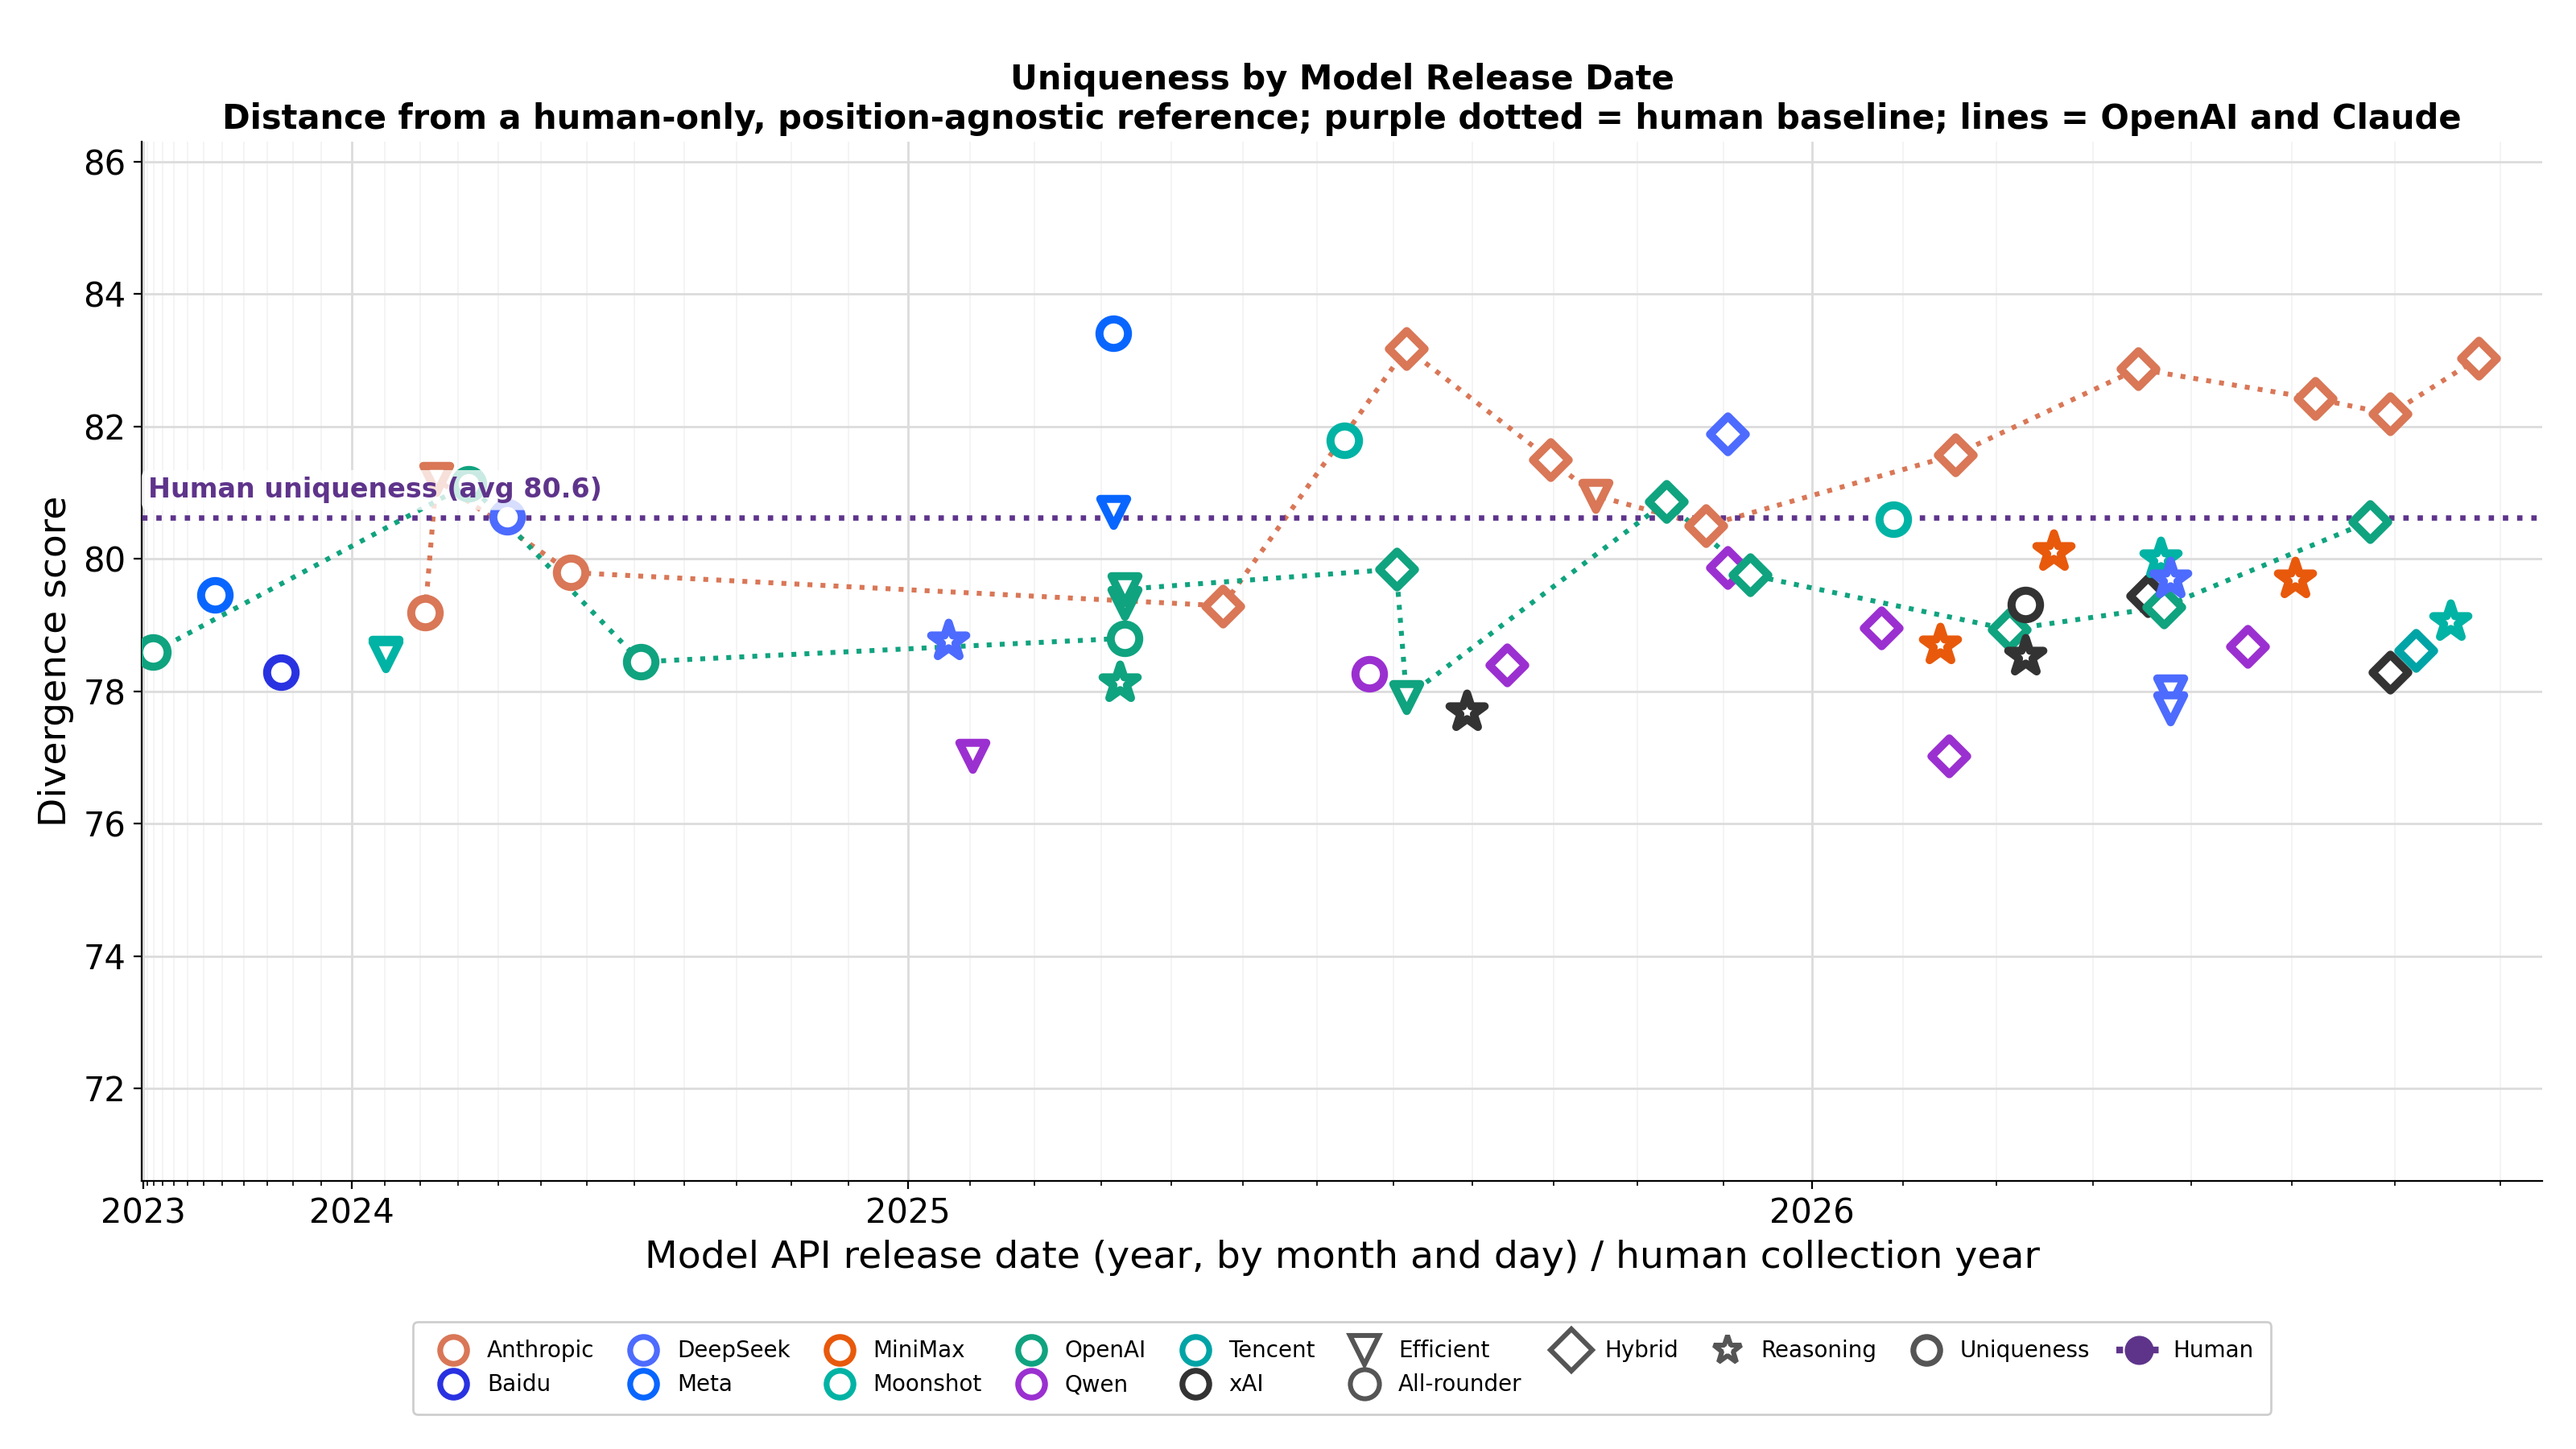
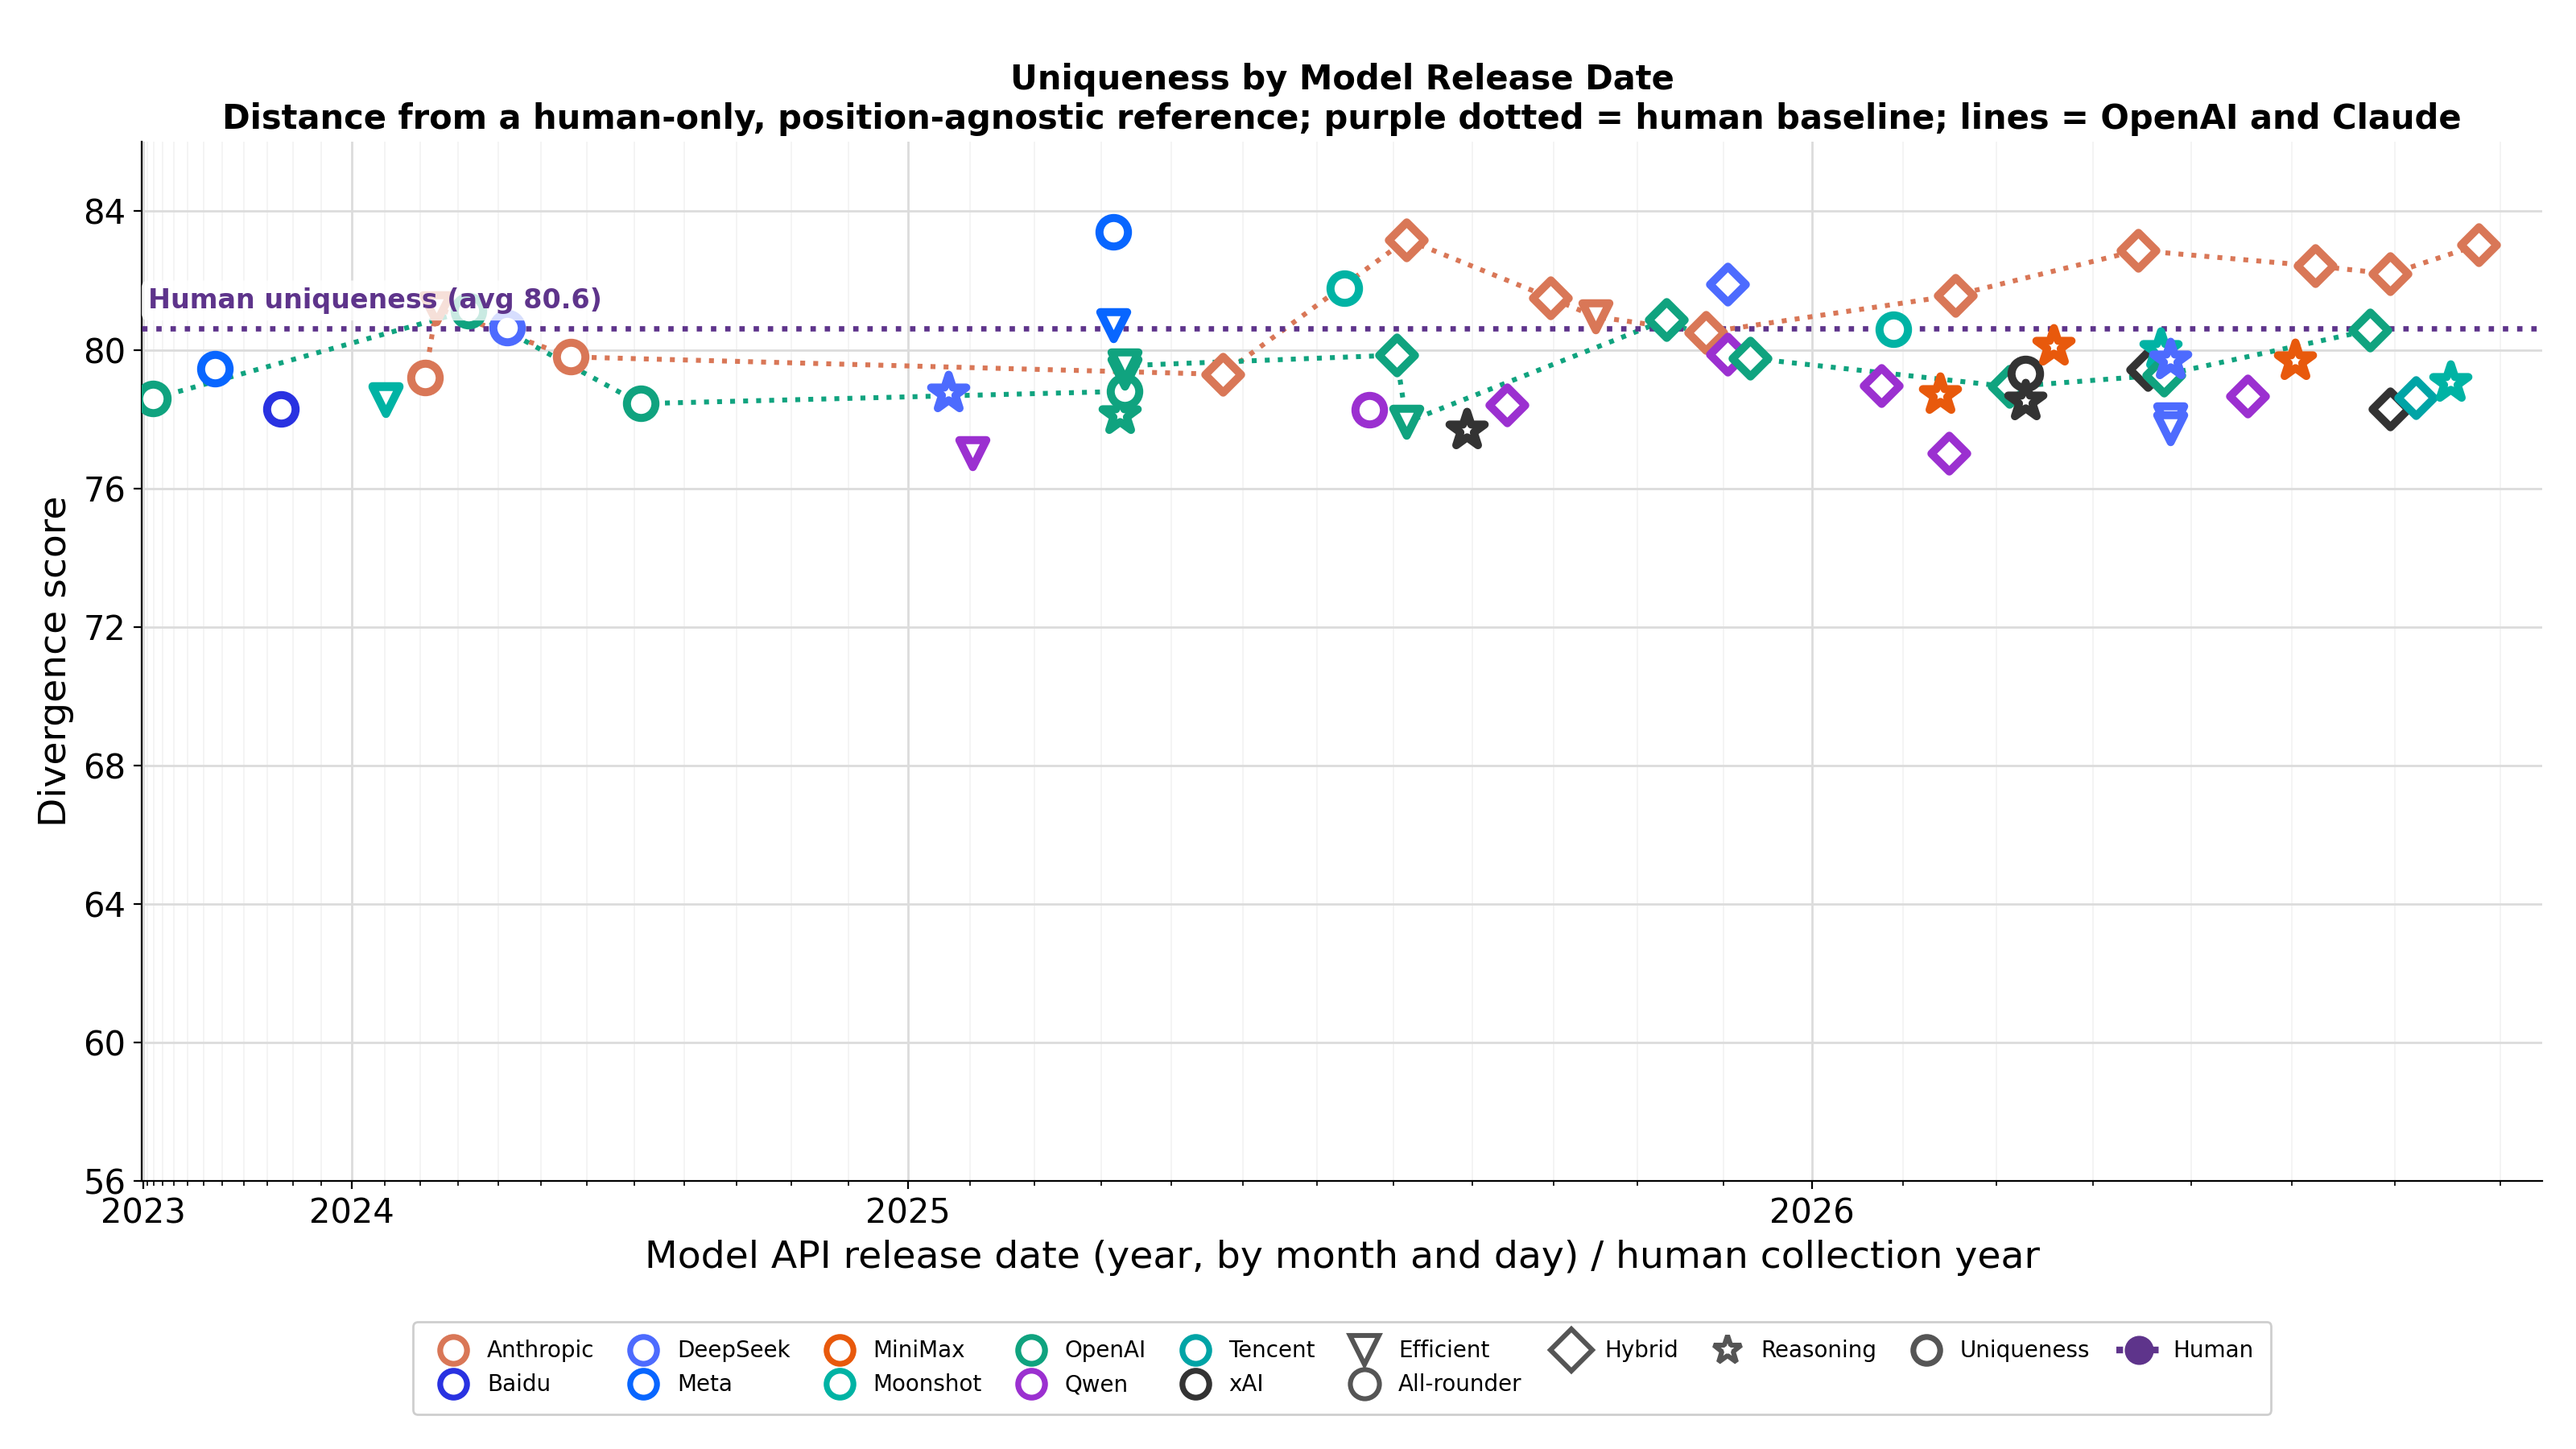
One shared y range of 56 to 86 across every figure
Replaces the two separate ranges (70.6-86.3 for the DAT and human-referenced uniqueness figures,
55.5-87.0 for the own-population uniqueness figures) with a single range in the style module, so
any two figures can be compared directly. Tick step 4 throughout.

Note the top marker sits at 85.89, leaving 0.11 of headroom, so it is partly clipped at the
ceiling.

diff --git a/analysis/overtime_style.py b/analysis/overtime_style.py
@@ -43,7 +43,6 @@ def load_all():
     models.sort(key=lambda m: dat[m][0])
     return dat,btw,hav["human_dat_mean"],hav["human_between_mean"],models
 
-CHURN_YLIM=(55.5,87.0)   # churn spans 56.5-72.3 and must also show the DAT range 71.3-85.9
 def load_uniq():
     """PRIMARY loader: DAT + uniqueness against a position-agnostic, HUMAN-ONLY reference.
 
@@ -75,7 +74,9 @@ def load_churn():
 def limits(dat,models):
     ax_=[dat[m][0] for m in models]
     return min(ax_)-2.6/12, max(ax_)+0.6/12
-YLIM=(70.6,86.3)          # covers DAT 71.3-85.9 and uniqueness 77.0-83.4, plus both human baselines
+YLIM=(56.0,86.0)          # one shared range for EVERY figure: covers DAT 71.3-85.9,
+                          # uniqueness-vs-human 77.0-83.4 and own-population uniqueness 56.5-72.4
+CHURN_YLIM=YLIM           # alias kept so older figure scripts stay valid
 FIGSIZE=(16,9); DPI=200   # saved WITHOUT tight bbox -> exactly 3200x1800 = true 16:9
 
 def new_fig():
@@ -83,7 +84,7 @@ def new_fig():
     fig.subplots_adjust(left=0.055,right=0.987,top=0.902,bottom=0.185)
     return fig,ax
 
-def frame(ax,xmin,xmax,title,ylim=None,ystep=2):
+def frame(ax,xmin,xmax,title,ylim=None,ystep=4):
     ax.set_xlim(tx(xmin),tx(xmax)); ax.set_ylim(*(ylim or YLIM))
     yr=[2023,2024,2025,2026]
     ax.set_xticks([tx(y) for y in yr]); ax.set_xticklabels([str(y) for y in yr])

diff --git a/analysis/fig5_repetition_only.py b/analysis/fig5_repetition_only.py
@@ -7,8 +7,7 @@ lineages(ax,dat,ch,models,'between')
 human_lines(ax,xmin,xmax,H_DAT,H_CH,show_dat=False,show_btw=True,btw_label_x=2023.02)
 between_markers(ax,dat,ch,models)
 frame(ax,xmin,xmax,"Uniqueness by Model Release Date\n"
-                   "Rarity of a response's words within its own population, on the DAT scale; purple dotted = human",
-      ylim=CHURN_YLIM,ystep=4)
+                   "Rarity of a response's words within its own population, on the DAT scale; purple dotted = human")
 legend(ax,dat,models,[Line2D([0],[0],marker='o',ls='none',markerfacecolor='white',markeredgecolor='#555',
                              markeredgewidth=2.6,ms=12,label='Uniqueness'),
                       Line2D([0],[0],color=HUMAN_PURPLE,lw=3,ls=':',marker='o',ms=12,label='Human')],

diff --git a/analysis/fig4_repetition_with_dat.py b/analysis/fig4_repetition_with_dat.py
@@ -16,8 +16,7 @@ shift_arrows(ax,dat,ch,models)
 dat_markers(ax,dat,models,alpha=0.50)
 between_markers(ax,dat,ch,models)
 frame(ax,xmin,xmax,"Within-Person Divergence (DAT) and Uniqueness by Model Release Date\n"
-                   "Uniqueness = rarity of a response's words within its own population, on the DAT scale",
-      ylim=CHURN_YLIM,ystep=4)
+                   "Uniqueness = rarity of a response's words within its own population, on the DAT scale")
 legend(ax,dat,models,[
     Line2D([0],[0],marker='o',ls='none',color='#555',alpha=0.50,ms=12,label='Within-person (DAT)'),
     Line2D([0],[0],marker='o',ls='none',markerfacecolor='white',markeredgecolor='#555',markeredgewidth=2.6,ms=12,label='Uniqueness'),

diff --git a/README.md b/README.md
@@ -55,8 +55,8 @@ carry an `identity_flag` where the label and the endpoint disagree. See
 
 ## Figures
 
-Three figures, all rendered from the shared style module `analysis/overtime_style.py` at
-true 16:9 (3200×1800) with identical x and y ranges so they are directly comparable.
+All figures render from the shared style module `analysis/overtime_style.py` at true 16:9
+(3200×1800) on one shared y range of 56 to 86, so any two are directly comparable.
 
 | Figure | Script | Output |
 |---|---|---|
